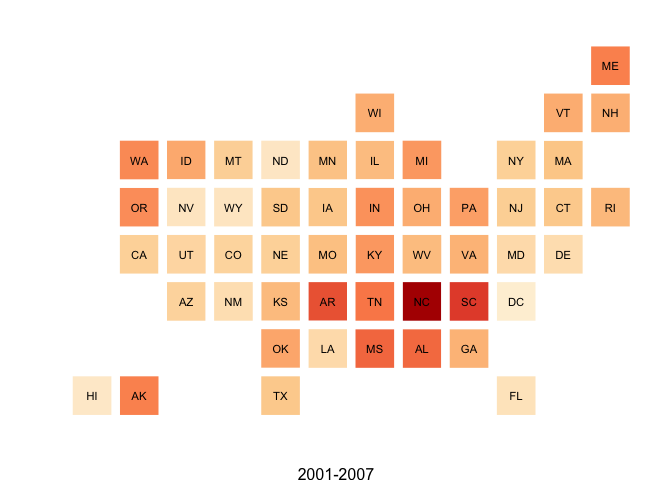
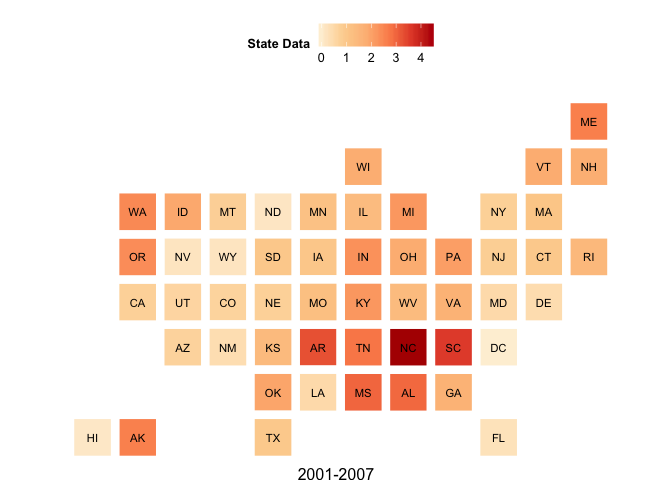
docs

diff --git a/README.md b/README.md
@@ -2,8 +2,8 @@ statebins is an alternative to choropleth maps for US States
 
 The following functions are implemented:
 
--   `statebins` -
--   `statebins_continuous` -
+-   `statebins` - creates "statebin" charts in the style of <http://bit.ly/statebins> - This version uses discrete `RColorBrewer` scales, binned by the "breaks" parameter.
+-   `statebins_continuous` - creates "statebin" charts in the style of <http://bit.ly/statebins> - This version uses a continuous scale based on `RColorBrewer` scales (passing in a 6 element `RColorBrewer` palette to `scale_fill_gradientn`).
 
 ### News
 
@@ -43,10 +43,12 @@ gg
 ![plot of chunk unnamed-chunk-3](./_README_files/figure-markdown_github/unnamed-chunk-31.png)
 
 ``` {.r}
+# continuous scale, legend on top
+
 gg2 <- statebins_continuous(dat, "state", "avgshare01_07",
-                legend_title="States", legend_position="none",
-                brewer_pal="OrRd", text_color="black", font_size=3, 
-                plot_title="2001-2007", title_position="bottom")
+                            legend_title="State Data", legend_position="top",
+                            brewer_pal="OrRd", text_color="black", font_size=3, 
+                            plot_title="2001-2007", title_position="bottom")
 
 gg2
 ```
@@ -54,15 +56,36 @@ gg2
 ![plot of chunk unnamed-chunk-3](./_README_files/figure-markdown_github/unnamed-chunk-32.png)
 
 ``` {.r}
+# continuous scale, no legend
+
 gg3 <- statebins_continuous(dat, "state", "avgshare08_12",
-                legend_title="States", legend_position="none",
-                brewer_pal="Purples", text_color="black", font_size=3, 
-                plot_title="2008-2012", title_position="bottom")
+                            legend_title="States", legend_position="none",
+                            brewer_pal="Purples", text_color="black", font_size=3, 
+                            plot_title="2008-2012", title_position="bottom")
 
 gg3
 ```
 
 ![plot of chunk unnamed-chunk-3](./_README_files/figure-markdown_github/unnamed-chunk-33.png)
+
+``` {.r}
+# or, more like the one in the WaPo article; i might be picking the wrong columns here. it's just for an example
+
+sb <- function(col, title) {
+  statebins(dat, "state",col, brewer_pal="Blues", text_color="black", legend_position="none", font_size=3, plot_title=title, breaks=4, labels=1:4)
+}
+
+image(1:4, 1, as.matrix(1:4), col = brewer.pal(4, name="Blues"), xlab = "", ylab = "", xaxt = "n", yaxt = "n", bty = "n")
+```
+
+![plot of chunk unnamed-chunk-3](./_README_files/figure-markdown_github/unnamed-chunk-34.png)
+
+``` {.r}
+grid.arrange(sb("avgshare94_00", "1994-2000"), sb("avgshare01_07", "2001-2007"), 
+             sb("avgshare08_12", "2008-2012"), ncol=2)
+```
+
+![plot of chunk unnamed-chunk-3](./_README_files/figure-markdown_github/unnamed-chunk-35.png)
 
 ### Test Results
 
@@ -73,7 +96,7 @@ library(testthat)
 date()
 ```
 
-    ## [1] "Mon Aug 25 22:36:21 2014"
+    ## [1] "Tue Aug 26 13:18:47 2014"
 
 ``` {.r}
 test_dir("tests/")
